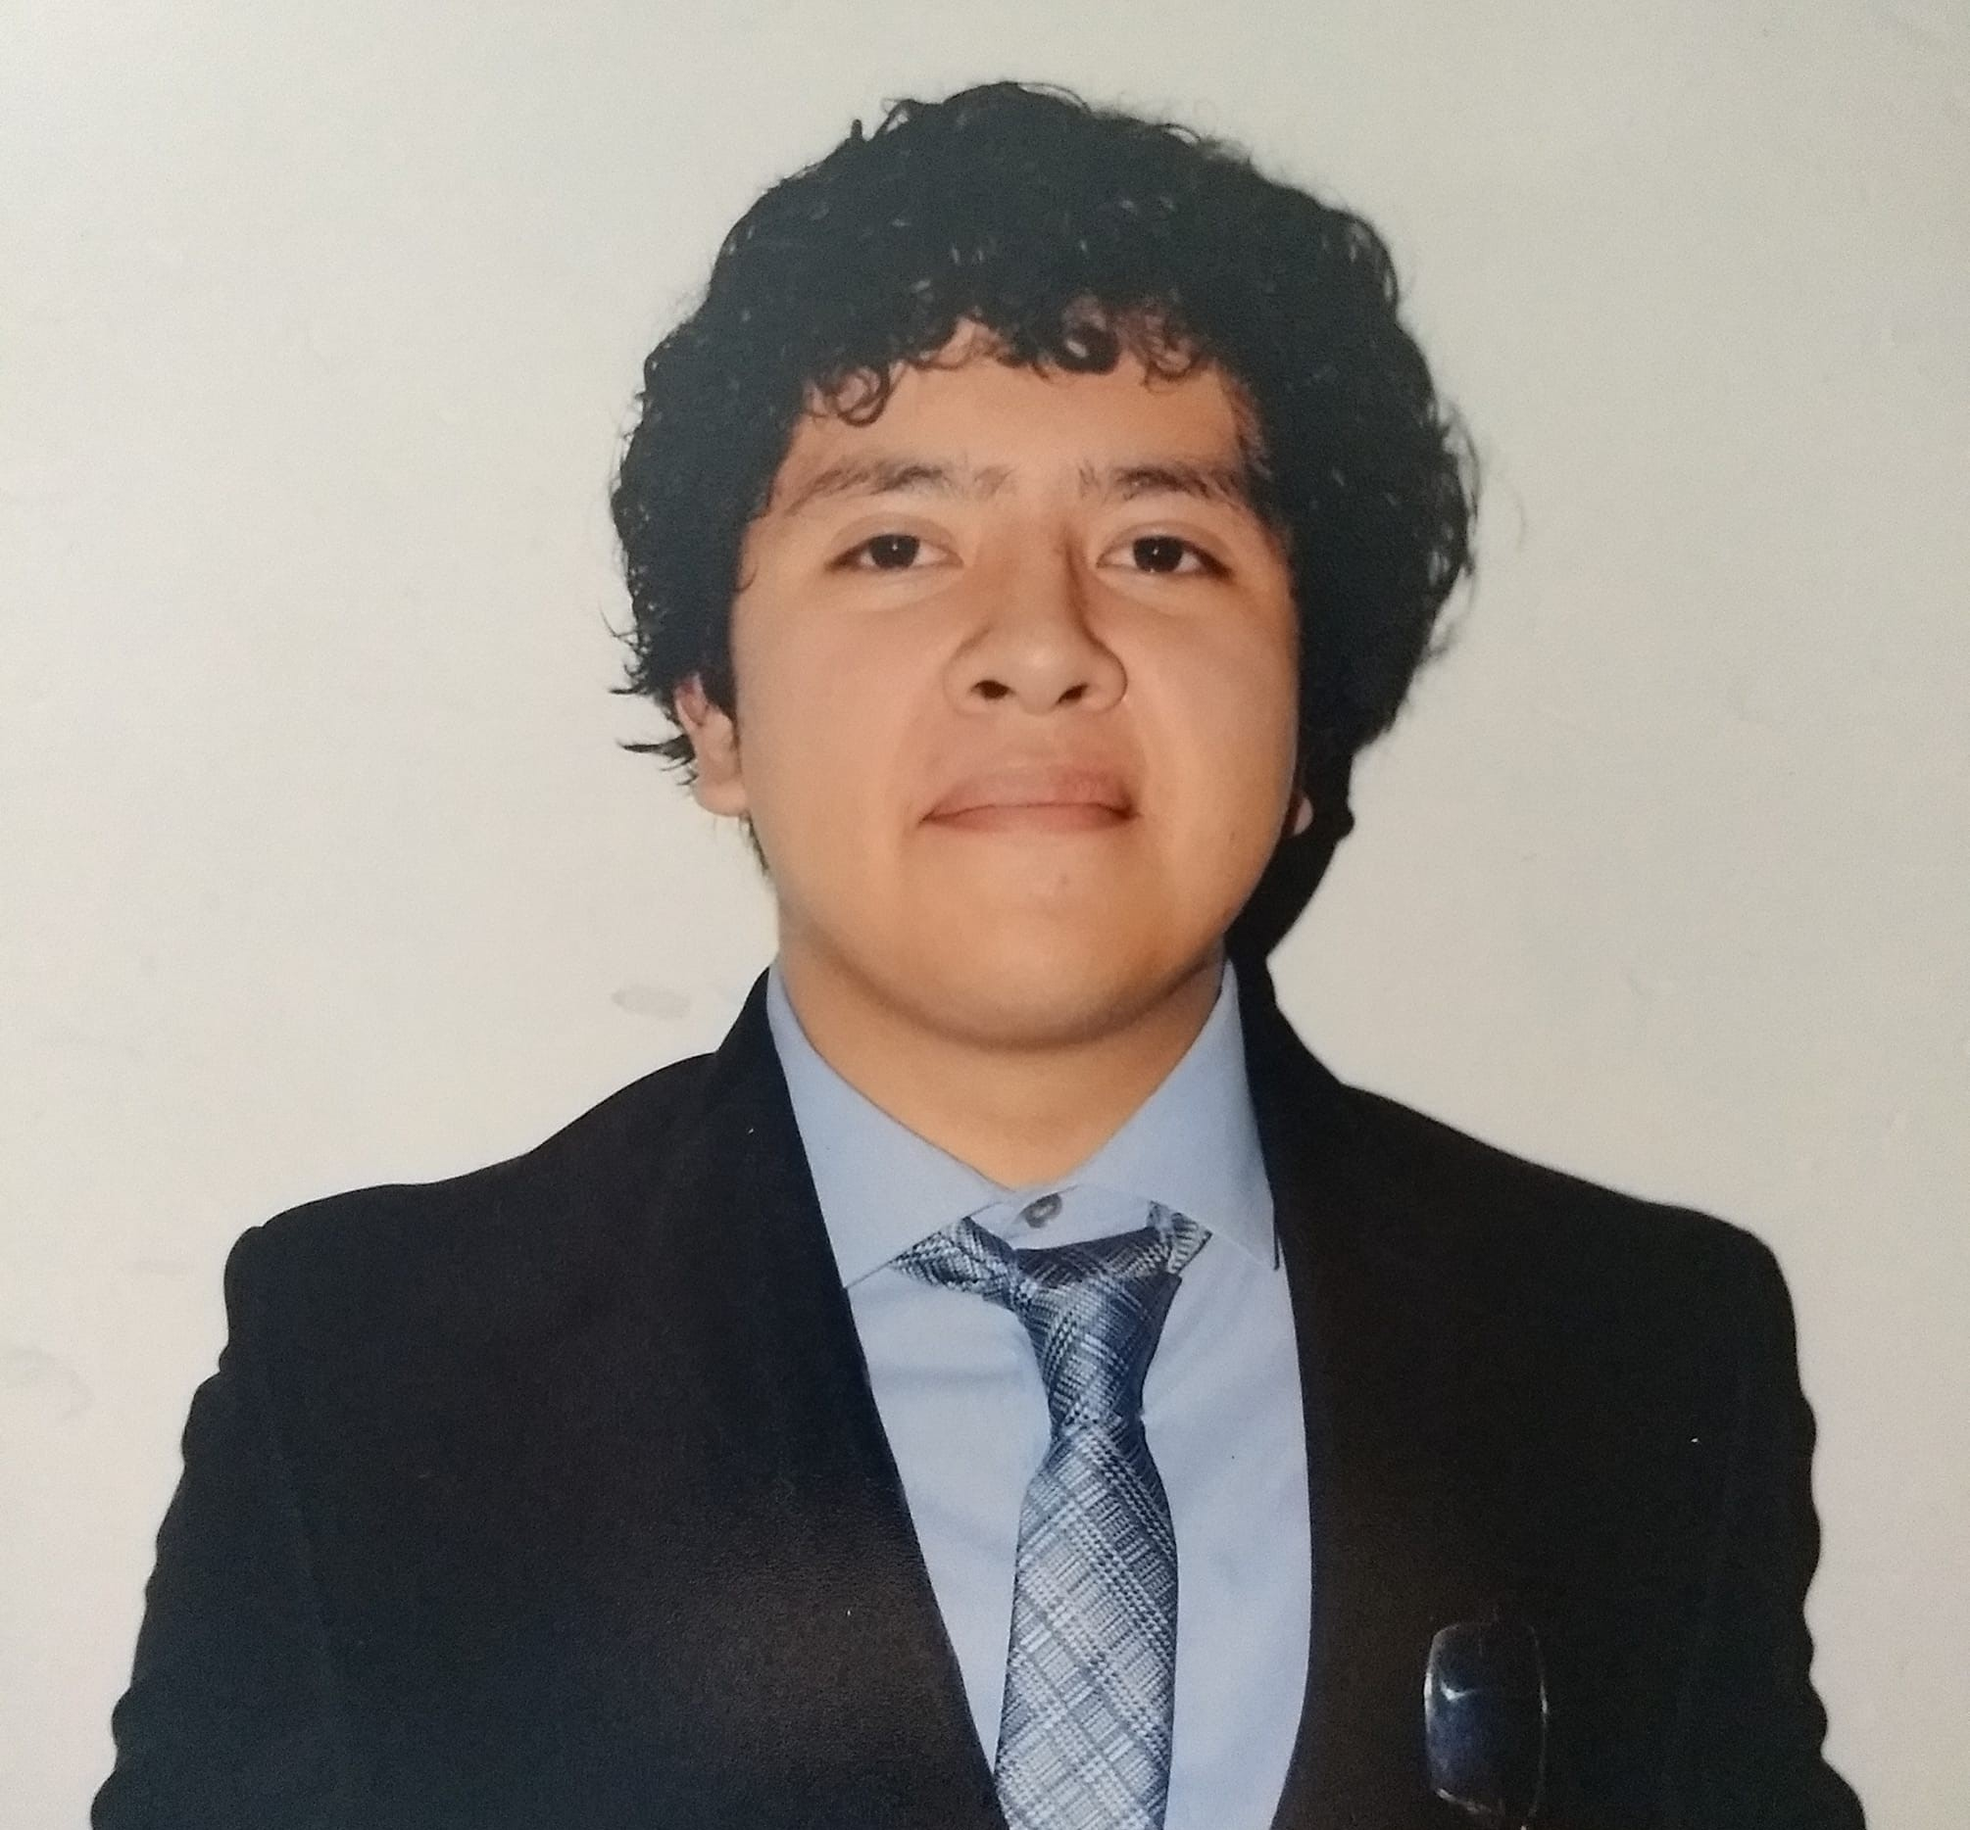
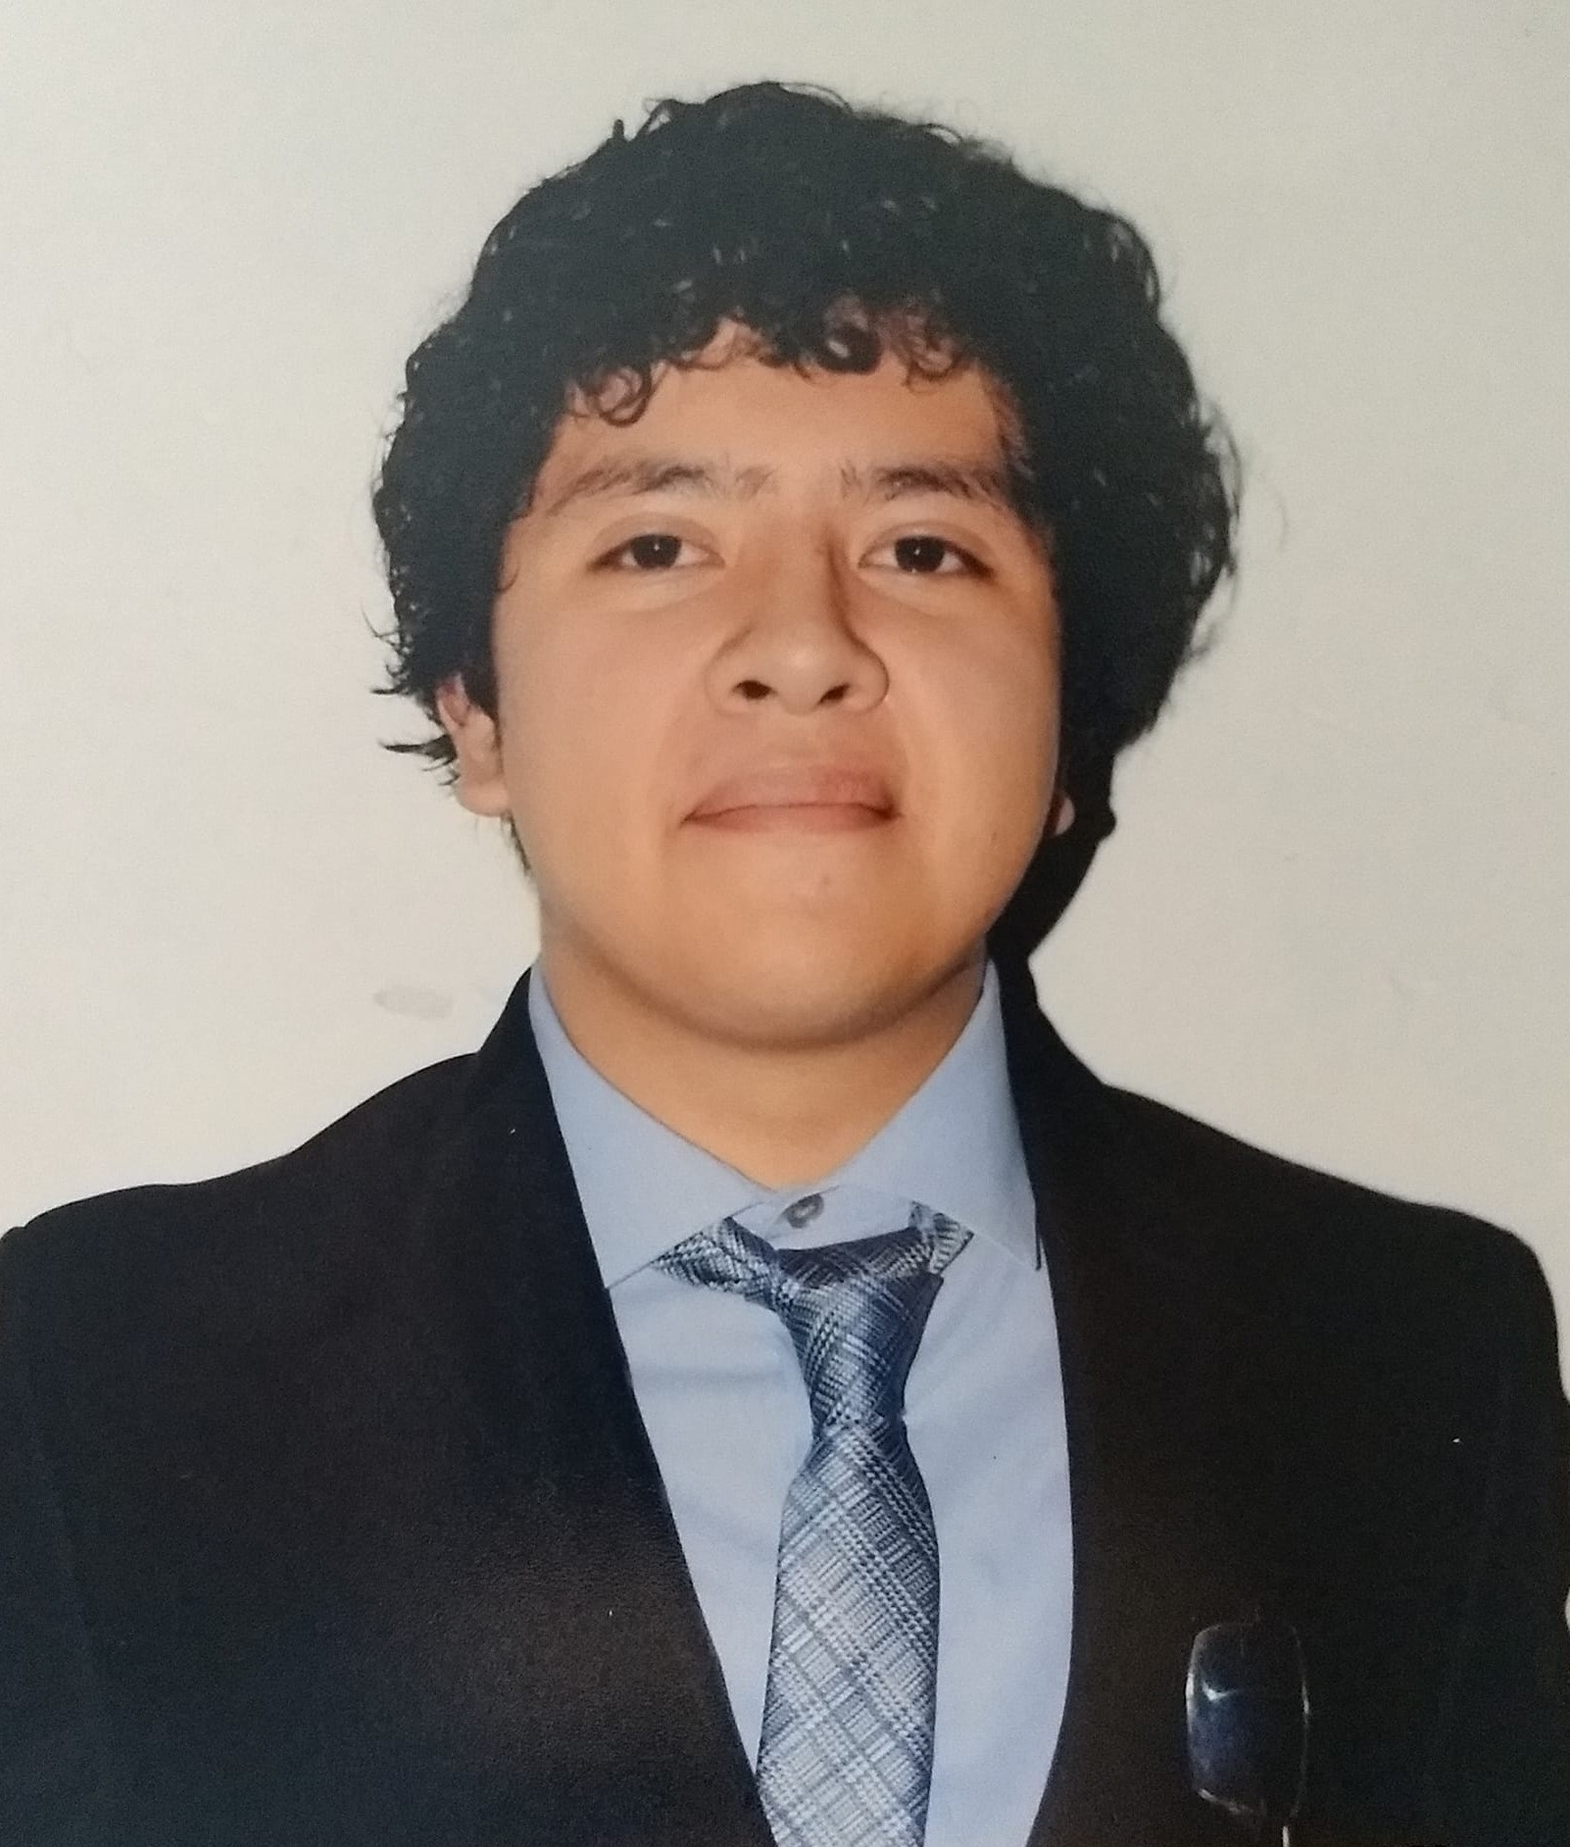
Se actualizan imágenes y partes visuales de la página

diff --git a/acercaDeNosotros.html b/acercaDeNosotros.html
@@ -119,13 +119,13 @@
                                 <div class="infodev1">
                                     <!--Botón para cerrar ventana flotante (modal) -->
                                     <span class="cerrardev1">&times;</span>
-                                    <img src="./src/team/luis.jpg" width="230" height="342" alt="imgLuis">
+                                    <img src="./src/team/luis.jpg" width="210" height="322" alt="imgLuis">
                                     <h2 class="nombredev">Luis Alberto Maldonado Cabrera</h2>
                                     <p>
                                         <strong class=>Biografía:</strong>
                                         <br>
-                                        <span class="biografia">Hola, soy Luis, ingeniero y aprendiz de desarrollador Java Full stack. Me encuentro incursionando en el mundo de las tecnologías de la información y puliendo mis habilidades tecnicas y blandas. 
-                                        Actualmente tengo el placer de encontrarme como estudiante dentro de Generation México aprendiendo sobre todo sobre sus aplicaciones a través de esta red social donde soy parte del equipo de desarrollo de la misma. 
+                                        <span class="biografia">Hola, soy Luis, desarrollador Java Full stack e ingeniero. Me encuentro incursionando en el mundo de las tecnologías de la información y puliendo mis habilidades técnicas y blandas. 
+                                        Me encuentro como estudiante dentro de Generation México, aprendiendo lo escencial a través de esta red social donde soy parte del equipo de desarrollo de la misma. 
                                           <br>
                                             </span>
                                     </p>
@@ -134,27 +134,6 @@
                             <h2 class="nombredev">Luis</h2>
                         </div>
         <!-- Agrega más desarrolladores según sea necesario -->
-            <div id="dev2" class="cuadro"> 
-            <!--Boton para abrir modal-->
-            <button id="abrirVentanadev2"><img src="./src/team/sally.jpg" class="img_desarrolladores" width="230" height="342" alt="foto Claudia" id="botondev2"></button>
-            <!--Ventana Flotante (modal) -->
-            <div id="desarrollador2" class="ventanadev2">
-                <div class="infodev2">
-                    <!--Botón para cerrar ventana flotante (modal) -->
-                    <span class="cerrardev2">&times;</span>
-                    <img src="./src/team/sally.jpg" width="230" height="342" alt="imgSally">
-                    <h2 class="nombredev">Claudia Angélica Rosas Álvarez</h2>
-                    <p>
-                        <strong class=>Biografía:</strong>
-                        <br>
-                        <span class="biografia"></span>
-                        <br>
-                        ¡Hola! Soy Claudia, una apasionada desarrolladora front-end con experiencia en la creación de interfaces web intuitivas y visualmente atractivas. Mi objetivo es transformar ideas complejas en experiencias de usuario simples y eficaces. Parte del scrum team dentro de esta bella red social.
-                    </p>
-                </div>
-            </div>
-            <h2 class="nombredev">Claudia</h2>
-                        </div>
             <div id="dev3" class="cuadro"> 
                             <!--Boton para abrir modal-->
                             <button id="abrirVentanadev3"><img src="./src/team/carol.jpg" class="img_desarrolladores" width="230" height="342" alt="foto Carol" id="botondev3"></button>

diff --git a/javascript/main.js b/javascript/main.js
@@ -34,40 +34,6 @@ function iniciarVentanadev1() {
 window.addEventListener("DOMContentLoaded", iniciarVentanadev1);
 
 
-//-----------------------------------------MODAL CLAUDIA --------------------------------------
-function abrirVentanadev2() {
-    const ventanadev2 = document.getElementById("desarrollador2");
-    ventanadev2.classList.add("ventanadev2_mostrar");
-}
-
-//Función para cerrar ventana flotante (modal)
-function cerrarVentanadev2() {
-    const ventanadev2 = document.getElementById("desarrollador2");
-    ventanadev2.classList.remove("ventanadev2_mostrar");
-}
-
-//Función para cerrar la ventana cuando se da click fuera del contenedor 
-function fueraVentanadev2(evento) {
-    const ventanadev2 = document.getElementById("desarrollador2");
-    if (evento.target == ventanadev2) {
-        ventanadev2.classList.remove("ventanadev2_mostrar");
-    }
-}
-
-// Agregar los event listeners 
-function iniciarVentanadev2() {
-    const abrirVentanadev2boton = document.getElementById("abrirVentanadev2");
-    const cerrarVentanadev2boton = document.querySelector(".cerrardev2");
-
-    abrirVentanadev2boton.addEventListener("click", abrirVentanadev2);
-    cerrarVentanadev2boton.addEventListener("click", cerrarVentanadev2);
-    window.addEventListener("click", fueraVentanadev2);
-}
-
-//Inicializar los event listeners 
-window.addEventListener("DOMContentLoaded", iniciarVentanadev2);
-
-
 //-----------------------------------------MODAL CAROL --------------------------------------
 function abrirVentanadev3() {
     const ventanadev3 = document.getElementById("desarrollador3");

diff --git a/css/style.css b/css/style.css
@@ -23,6 +23,7 @@ body {
     text-align: justify;
     margin-right: 100px;
     margin-left: 20px;
+    font-family: "Comic Neue", cursive;
 }
 .aboutus {
     display: flex;
@@ -97,6 +98,9 @@ a.nav-link {
 }
 
 /*Acerca de nosotros*/
+
+
+
 .row {
     margin: 40px;
     width: 100%;
@@ -107,6 +111,7 @@ a.nav-link {
     font-family: "Patrick Hand", cursive;
     font-weight: 400;
     font-style: normal;
+    font-size: 24px;
 }
 .col {
     width: 65%;
@@ -123,8 +128,9 @@ a.nav-link {
     border-radius: 25px;
     text-align: center;
     padding: 15px;
-    font-family: Sofia;
-    font-size: 24px;
+    font-family: "Patrick Hand", cursive;
+    font-weight: 400;
+    font-style: normal;
     color: black;
     box-sizing: border-box;
     margin: 10px;
@@ -216,6 +222,7 @@ footer {
     padding: 10px;
     background-color: #046CB8;
     width: 100%;
+    color: white;
 }
 
 .grid-container > * {

diff --git a/css/modal.css b/css/modal.css
@@ -60,7 +60,7 @@
 
 /* Contenido de la ventana modal */
 .infodev1, .infodev2, .infodev3, .infodev4, .infodev5, .infodev6, .infodev7, .infodev8 {
-    background-color: #d4b5ebbb;
+    background-color: rgba(162, 216, 241, 0.712);
     margin: auto;
     width: 90%;
     max-width: 600px;
@@ -68,8 +68,8 @@
     padding: 3em 2.5em;
     gap: 1em;
     place-items: center;
-    border: 1px solid rgba(129, 99, 158, 0.712);
-    border-radius: 60px;
+    border: 1px solid rgba(99, 139, 158, 0.712);
+    border-radius: 50px;
     box-shadow: 0 0 10px #61baad;
     font-family: "Comic Neue", cursive;
     font-weight: 400;
@@ -92,7 +92,7 @@
 @media (min-width: 768px) {
     .infodev1, .infodev2, .infodev3, .infodev4, .infodev5, .infodev6, .infodev7, .infodev8 {
         padding: 2em 2em;
-        font-size: 14px;
+        font-size: 13px;
     }
 }
 

diff --git a/index.html b/index.html
@@ -50,9 +50,9 @@
         </div>
     </div>
       <!-- Footer -->
-      <footer class="bg-light text-center py-3">
-        <p1>©2024 DELHAZ TRAVEL. All Rights Reserved.</p1>
-      </footer>
+      <footer>
+        <p>©2024 DELHAZ TRAVEL. All Rights Reserved.</p>
+    </footer>
     </div>
 
     <script src="https://cdn.jsdelivr.net/npm/bootstrap@5.3.3/dist/js/bootstrap.bundle.min.js" integrity="sha384-YvpcrYf0tY3lHB60NNkmXc5s9fDVZLESaAA55NDzOxhy9GkcIdslK1eN7N6jIeHz" crossorigin="anonymous"></script>

diff --git a/css/index.css b/css/index.css
@@ -136,11 +136,10 @@ h2 {
 
 /*Footer*/
 
-    footer {
-        text-align: center;
-        padding: 10px;
-        background-color: #fff;
-        box-shadow: 0 -2px 4px rgba(0, 0, 0, 0.1);
-        width: 100%;
-        position: inherit;
-    }
+footer {
+  text-align: center;
+  padding: 10px;
+  background-color: #046CB8;
+  width: 100%;
+  color: white;
+}
